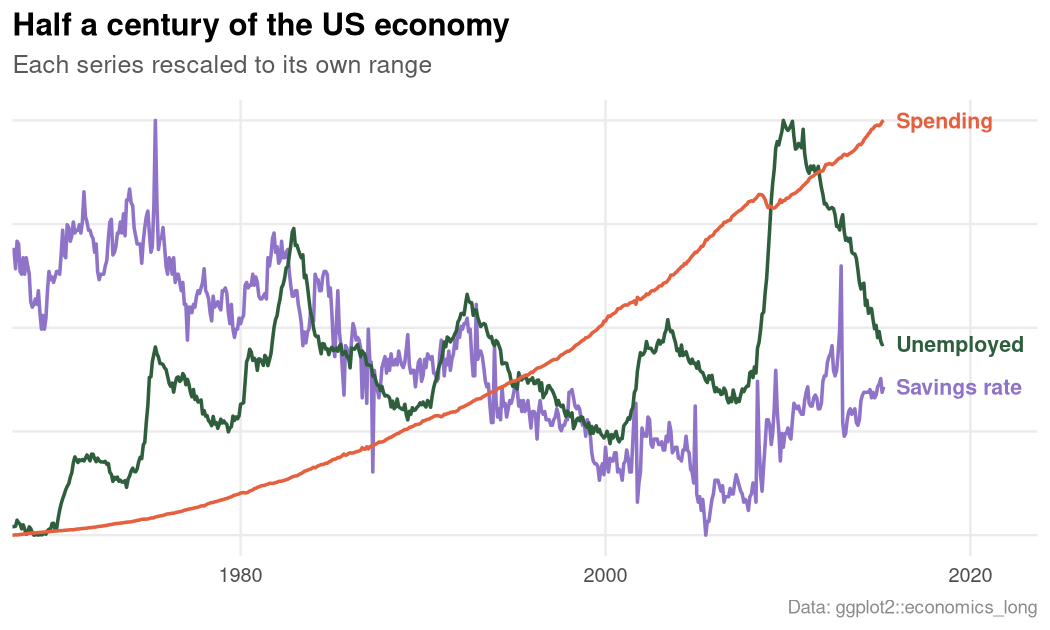
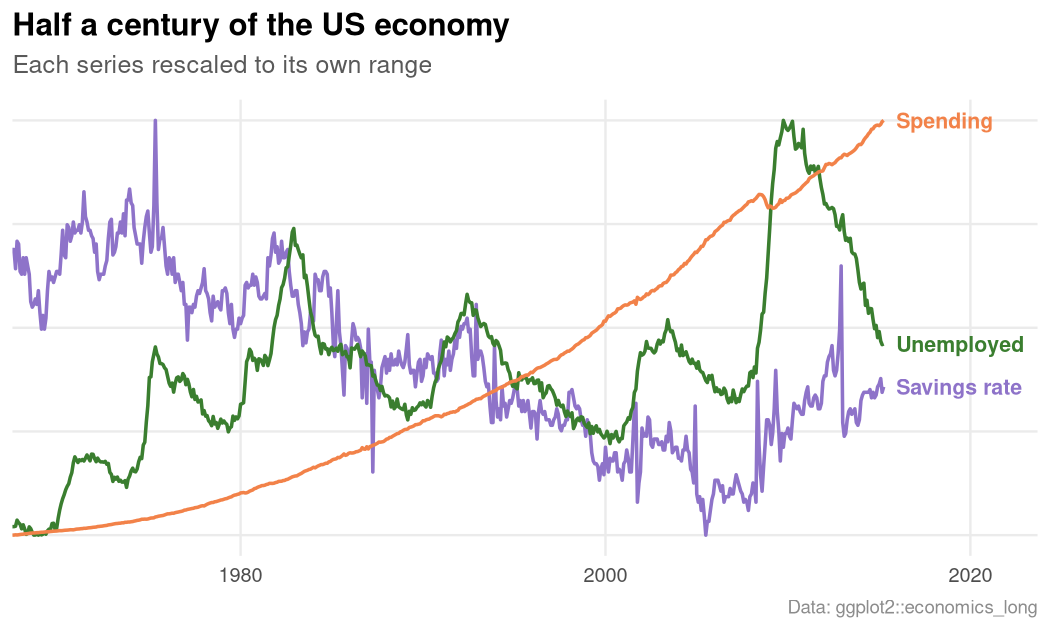
Brighten green, warm flame tree, replace brown and beige
Main palette changes, from user feedback:
- gum_leaf #2F5E3D -> fig_leaf #3A7E2F (brighter, grassier green)
- flame_tree #E5603F -> #F28249 (more orange)
- red_cedar (brown) -> lilly_pilly #C85382 (pink berries)
- paperbark (beige) -> blue_quandong #42598B (deep blue fruit)
- wattle #EFC23A -> #F2C83A (keeps it apart from the new orange)

Every pair is still at least CIEDE2000 10 apart under simulated
deuteranopia, protanopia and tritanopia. The light palette now mixes
each colour towards white by its own amount, which lifts its minimum
distance from 7 to 8.3. The diverging palette's green side follows the
fig leaf hue. data-raw/palettes.R reproduces all values.

jac_show() now shrinks labels to fit narrow swatches, and the README
seq example output was corrected to the real interpolated values.

diff --git a/README.md b/README.md
@@ -6,7 +6,8 @@
 
 Colour palettes inspired by the jacaranda tree, whose violet blooms cover
 Australian streets every November, and the trees that flower alongside it:
-the red Illawarra flame tree, golden wattle, gum leaves and paperbark.
+the orange-red Illawarra flame tree, golden wattle, glossy figs, lilly pilly
+and blue quandong.
 
 <p align="center">
   <img src="man/figures/gallery-palette-card-1.png" alt="The four jacarandr palettes: main, light, seq and div" width="100%">
@@ -34,8 +35,8 @@ blue-yellow colour vision deficiency.
     <td colspan="2"><img src="man/figures/gallery-bars-grouped-1.png" alt="Grouped bar chart of eight car makes in all eight main palette colours"></td>
   </tr>
   <tr>
-    <td width="50%"><img src="man/figures/gallery-bars-highlight-1.png" alt="Horizontal bar chart with one jacaranda bar highlighted against paperbark bars"></td>
-    <td width="50%"><img src="man/figures/gallery-bars-stacked-1.png" alt="Stacked proportion bar chart in jacaranda, gum leaf and flame tree"></td>
+    <td width="50%"><img src="man/figures/gallery-bars-highlight-1.png" alt="Horizontal bar chart with one jacaranda bar highlighted against light jacaranda bars"></td>
+    <td width="50%"><img src="man/figures/gallery-bars-stacked-1.png" alt="Stacked proportion bar chart in jacaranda, fig leaf and flame tree"></td>
   </tr>
   <tr>
     <td><img src="man/figures/gallery-lines-1.png" alt="Line chart of three economic series with direct labels"></td>
@@ -74,21 +75,21 @@ jacarandr only needs base R. ggplot2 is optional and only needed for the
 library(jacarandr)
 
 jac_pal()                      # all 8 main colours
-#> [1] "#8E73C9" "#2F5E3D" "#E5603F" "#EFC23A" "#9CC0CF" "#A3521B" "#D9C7A7"
+#> [1] "#8E73C9" "#3A7E2F" "#F28249" "#F2C83A" "#9CC0CF" "#C85382" "#42598B"
 #> [8] "#352862"
 
 jac_pal(n = 3)                 # the three most distinct
-#> [1] "#8E73C9" "#2F5E3D" "#E5603F"
+#> [1] "#8E73C9" "#3A7E2F" "#F28249"
 
 jac_pal(n = 3, reverse = TRUE) # the same three, reversed
-#> [1] "#E5603F" "#2F5E3D" "#8E73C9"
+#> [1] "#F28249" "#3A7E2F" "#8E73C9"
 
 jac_pal("seq", n = 5)          # any number from a continuous palette
-#> [1] "#F7F1FF" "#B79FE6" "#8E73C9" "#433771" "#282051"
+#> [1] "#F7F1FF" "#C9B5ED" "#8E73C9" "#544585" "#282051"
 
 jac_colours("jacaranda", "wattle")  # pick colours by name
 #> jacaranda    wattle
-#> "#8E73C9" "#EFC23A"
+#> "#8E73C9" "#F2C83A"
 ```
 
 They work anywhere a colour vector does, including base graphics:

diff --git a/tests/testthat/_snaps/jac_pal.md b/tests/testthat/_snaps/jac_pal.md
@@ -20,7 +20,7 @@
       jac_colours("jacaranda", "purple", "green")
     Condition
       Error:
-      ! Unknown colour names: "purple", "green". Available names are: "jacaranda", "gum_leaf", "flame_tree", "wattle", "blue_gum", "red_cedar", "paperbark", "twilight".
+      ! Unknown colour names: "purple", "green". Available names are: "jacaranda", "fig_leaf", "flame_tree", "wattle", "blue_gum", "lilly_pilly", "blue_quandong", "twilight".
 
 # jac_colours() only accepts discrete palettes
 

diff --git a/NEWS.md b/NEWS.md
@@ -3,7 +3,7 @@
 * Initial release.
 * Four palettes: `"main"` (8 discrete colours), `"light"` (a softer companion
   to `"main"`), `"seq"` (sequential light to dark jacaranda) and `"div"`
-  (diverging jacaranda to gum leaf).
+  (diverging jacaranda to fig leaf).
 * `jac_pal()` returns colours from any palette, with `n` and `reverse`.
 * `jac_colours()` returns colours by name.
 * `jac_show()` previews palettes with base graphics.
